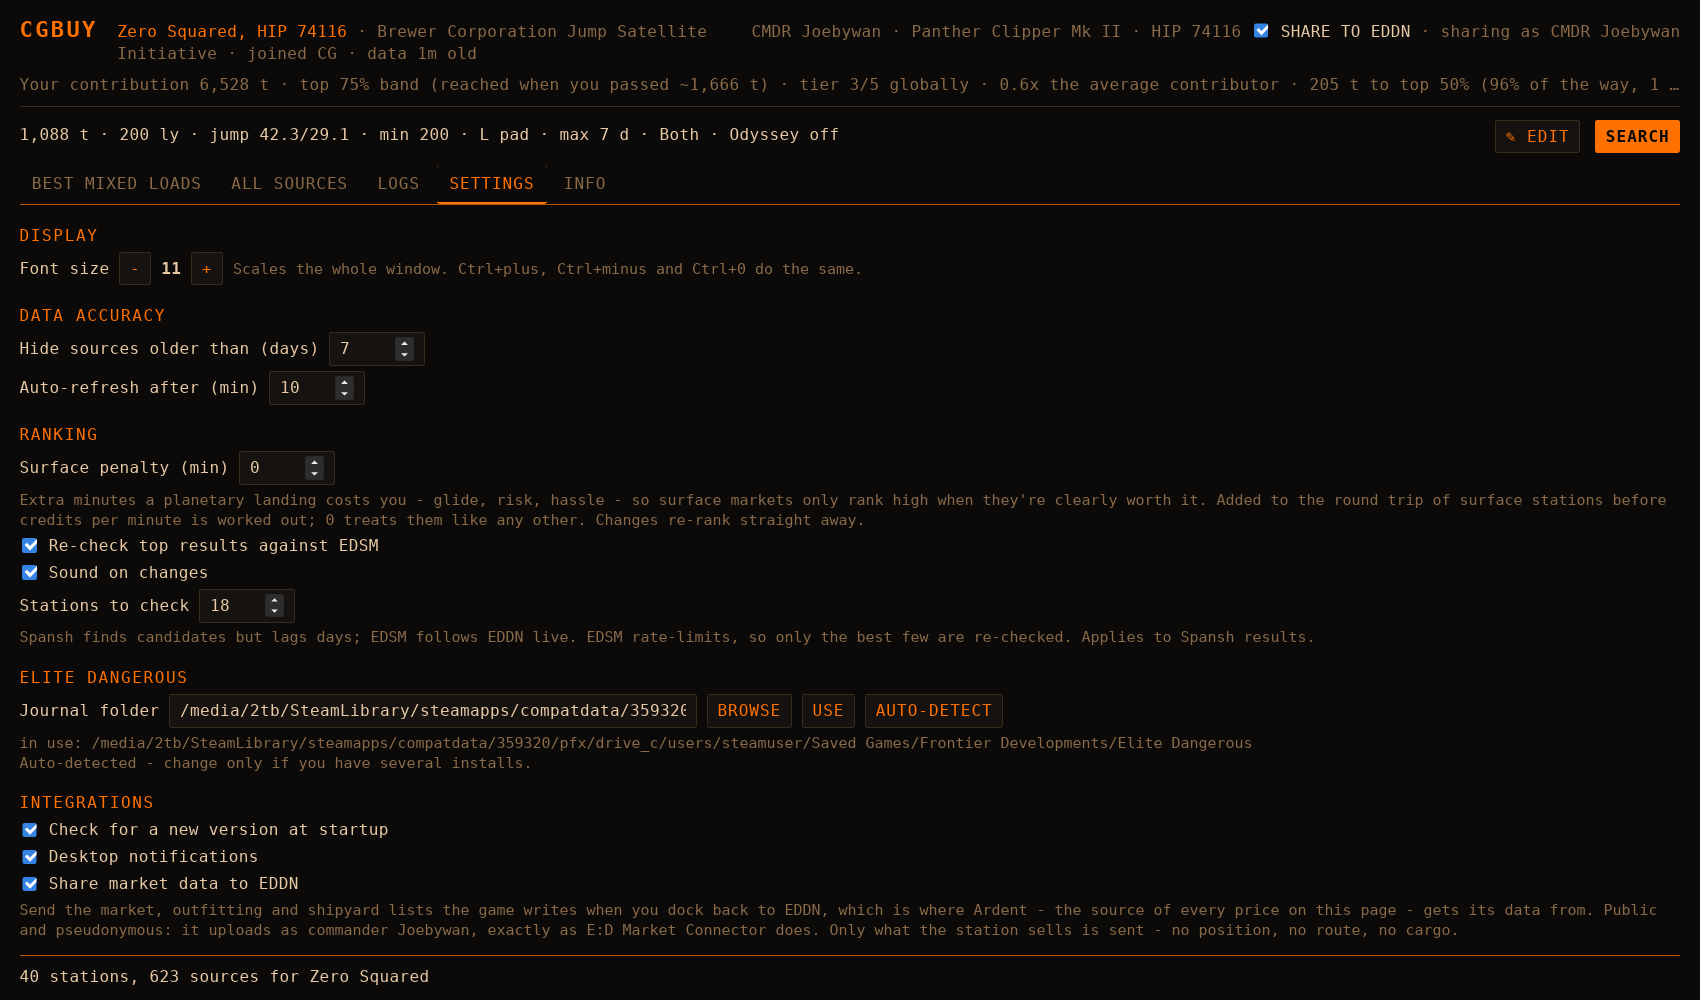
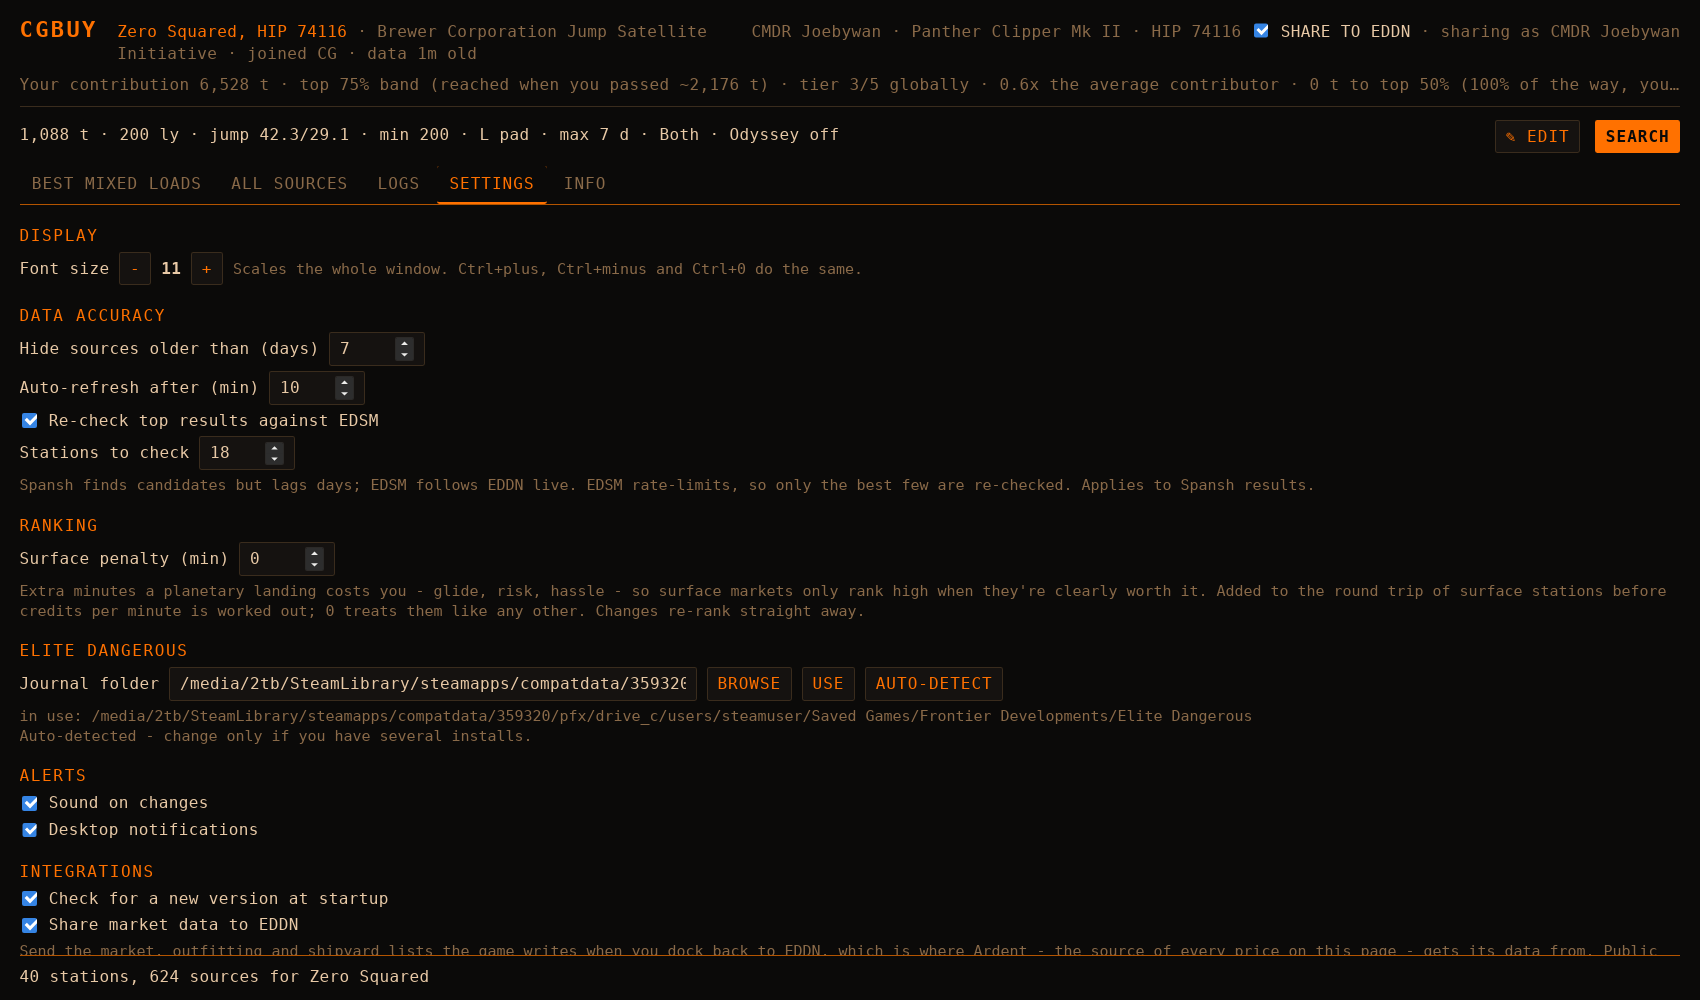
Settings: EDSM re-check under data accuracy; sound and notifications in an Alerts section
Their tooltips described the retired top-5 alert; they now name what does
alert (copied target, reward band, EDSM stall).

diff --git a/app/index.html b/app/index.html
@@ -89,24 +89,25 @@
     <h2>DATA ACCURACY</h2>
     <label class="row" title="A CG drains supply fast, so a week-old report of 40,000t may be a wasted trip. Raising this shows the older rows rather than hiding them; the AGE column is coloured so you can judge each one. Changing it re-runs the search.">Hide sources older than (days) <input id="s-max_age" type="number" min="0" step="1"></label>
     <label class="row" title="On startup, a cached result newer than this is shown as-is; anything older starts a fresh search straight away, with the old numbers on screen while it runs.">Auto-refresh after (min) <input id="s-fresh" type="number" min="0" step="1"></label>
-    <h2>RANKING</h2>
-    <label class="row">Surface penalty (min) <input id="s-surface" type="number" min="0" step="1"></label>
-    <p class="dim small">Extra minutes a planetary landing costs you - glide, risk, hassle - so surface markets only rank high when they're clearly worth it. Added to the round trip of surface stations before credits per minute is worked out; 0 treats them like any other. Changes re-rank straight away.</p>
     <div class="desktop-only">
       <label class="row check"><input id="s-verify" type="checkbox"> Re-check top results against EDSM</label>
-      <label class="row check" title="A chime when the station you last copied moves or drops out of the results, or EDSM has been rate-limiting for 5+ minutes."><input id="s-sound" type="checkbox"> Sound on changes</label>
       <label class="row">Stations to check <input id="s-vtop" type="number" min="0" step="1"></label>
       <p class="dim small">Spansh finds candidates but lags days; EDSM follows EDDN live. EDSM rate-limits, so only the best few are re-checked. Applies to Spansh results.</p>
     </div>
+    <h2>RANKING</h2>
+    <label class="row">Surface penalty (min) <input id="s-surface" type="number" min="0" step="1"></label>
+    <p class="dim small">Extra minutes a planetary landing costs you - glide, risk, hassle - so surface markets only rank high when they're clearly worth it. Added to the round trip of surface stations before credits per minute is worked out; 0 treats them like any other. Changes re-rank straight away.</p>
     <div class="desktop-only">
       <h2>ELITE DANGEROUS</h2>
       <div class="row">Journal folder <input id="s-dir" size="50" placeholder="auto-detect" autocomplete="off">
         <button id="s-dir-browse" type="button">BROWSE</button> <button id="s-dir-set" type="button">USE</button> <button id="s-dir-auto" type="button">AUTO-DETECT</button></div>
       <p class="dim small"><span id="s-dir-now"></span> <span id="s-dir-msg" class="bad"></span><br>Auto-detected - change only if you have several installs.</p>
     </div>
+    <h2>ALERTS</h2>
+    <label class="row check" title="A chime when the station you last copied moves or drops out of the results, when your reward band changes, or when EDSM has been rate-limiting for 5+ minutes."><input id="s-sound" type="checkbox"> Sound on changes</label>
+    <div class="desktop-only"><label class="row check" title="The same alerts as a system notification, for when the window sits behind the game - plus docking at the goal station without having registered."><input id="s-notify" type="checkbox"> Desktop notifications</label></div>
     <h2>INTEGRATIONS</h2>
     <div class="desktop-only"><label class="row check" title="One request to GitHub when the app starts; it only shows a link in the header, nothing is downloaded or installed."><input id="s-update" type="checkbox"> Check for a new version at startup</label></div>
-    <div class="desktop-only"><label class="row check" title="Tells you when the best target changes, or when you dock at the goal station without having registered - the window usually sits behind the game."><input id="s-notify" type="checkbox"> Desktop notifications</label></div>
     <label class="row check"><input id="s-eddn" type="checkbox"> Share market data to EDDN</label>
     <p id="s-eddn-note" class="dim small"></p>
     <h2>BEST MIXED LOADS</h2>
